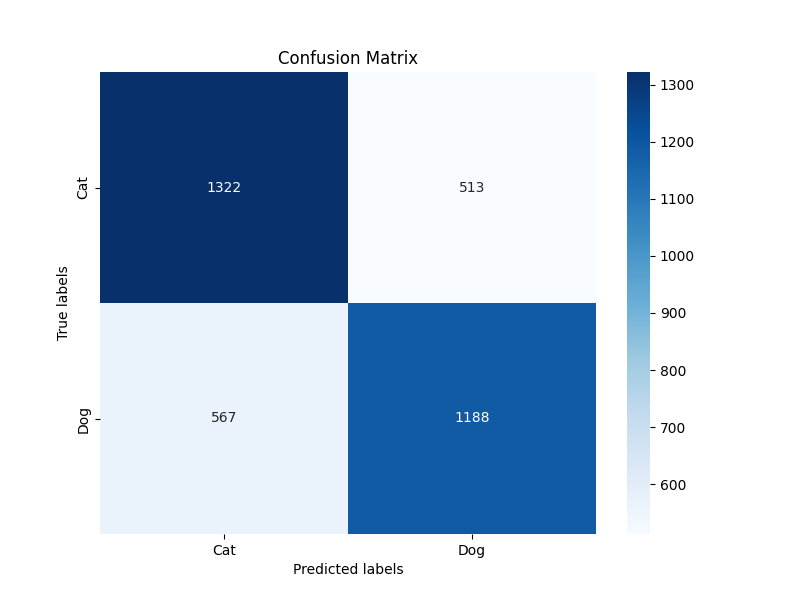
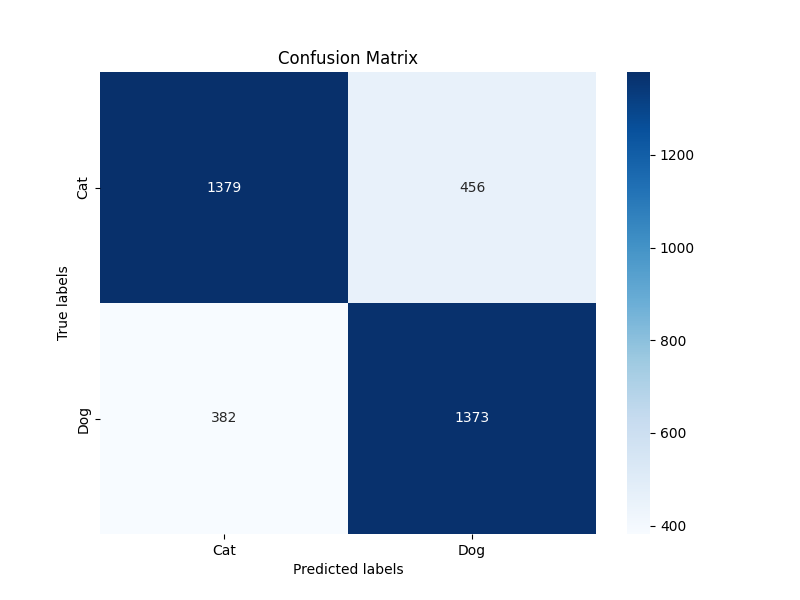
Æ[UPDATE] Training to compare

diff --git a/1_CatDog_Project/Compare_CNN/training_model.py b/1_CatDog_Project/Compare_CNN/training_model.py
@@ -51,26 +51,54 @@ def build_vgg11_model(input_shape=(224, 224, 3), num_classes=2):
     # Khởi tạo mô hình và thêm các lớp giống như trong đoạn code ban đầu của bạn
 
     #Lenet8 lớp
+    # model = Sequential()
+    # model.add(Input(shape=(224, 224, 3)))
+    # model.add(Conv2D(filters=16, kernel_size=(3, 3), activation="relu", padding="same"))
+    # model.add(MaxPool2D(pool_size=(2, 2)))
+
+    # model.add(Conv2D(filters=32, kernel_size=(3, 3), activation="relu", padding="same"))
+    # model.add(MaxPool2D(pool_size=(2, 2)))
+
+    # model.add(Conv2D(filters=64, kernel_size=(3, 3), activation="relu", padding="same"))
+    # model.add(MaxPool2D(pool_size=(2, 2)))
+
+    # model.add(Conv2D(filters=128, kernel_size=(3, 3), activation="relu", padding="same"))
+    # model.add(MaxPool2D(pool_size=(2, 2)))
+
+    # model.add(Conv2D(filters=128, kernel_size=(3, 3), activation="relu", padding="same"))
+    # model.add(MaxPool2D(pool_size=(2, 2)))
+
+    # model.add(Flatten())
+    # model.add(Dense(units=4096, activation="relu"))
+    # model.add(Dropout(0.2))
+    # model.add(Dense(units=1024, activation="relu"))
+    # model.add(Dropout(0.2))
+    # model.add(Dense(units=2, activation="softmax"))
+
+
     model = Sequential()
     model.add(Input(shape=(224, 224, 3)))
-    model.add(Conv2D(filters=16, kernel_size=(3, 3), activation="relu", padding="same"))
-    model.add(MaxPool2D(pool_size=(2, 2)))
-
-    model.add(Conv2D(filters=32, kernel_size=(3, 3), activation="relu", padding="same"))
-    model.add(MaxPool2D(pool_size=(2, 2)))
-
     model.add(Conv2D(filters=64, kernel_size=(3, 3), activation="relu", padding="same"))
     model.add(MaxPool2D(pool_size=(2, 2)))
 
     model.add(Conv2D(filters=128, kernel_size=(3, 3), activation="relu", padding="same"))
     model.add(MaxPool2D(pool_size=(2, 2)))
 
-    model.add(Conv2D(filters=128, kernel_size=(3, 3), activation="relu", padding="same"))
+    model.add(Conv2D(filters=256, kernel_size=(3, 3), activation="relu", padding="same"))
+    model.add(Conv2D(filters=256, kernel_size=(3, 3), activation="relu", padding="same"))
+    model.add(MaxPool2D(pool_size=(2, 2)))
+
+    model.add(Conv2D(filters=512, kernel_size=(3, 3), activation="relu", padding="same"))
+    model.add(Conv2D(filters=512, kernel_size=(3, 3), activation="relu", padding="same"))
+    model.add(MaxPool2D(pool_size=(2, 2)))
+
+    model.add(Conv2D(filters=512, kernel_size=(3, 3), activation="relu", padding="same"))
+    model.add(Conv2D(filters=512, kernel_size=(3, 3), activation="relu", padding="same"))
     model.add(MaxPool2D(pool_size=(2, 2)))
 
     model.add(Flatten())
     model.add(Dense(units=4096, activation="relu"))
-    model.add(Dense(units=1024, activation="relu"))
+    model.add(Dense(units=4096, activation="relu"))
     model.add(Dense(units=2, activation="softmax"))
 
     return model
@@ -192,12 +220,12 @@ dog_folders = [
 # train_x, test_x, train_y, test_y = process_data([(cat_regular_x, cat_regular_y), (dog_regular_x, dog_regular_y)])
 # train_and_save_model(train_x, train_y, test_x, test_y, "VGG11_CatDog_Full", epochs=30)
 
-cat_regular_x, cat_regular_y = mix_data([cat_folders[4]], 0)
-dog_regular_x, dog_regular_y = mix_data([dog_folders[4]], 1)
+cat_regular_x, cat_regular_y = mix_data([cat_folders[0]], 0)
+dog_regular_x, dog_regular_y = mix_data([dog_folders[0]], 1)
 
 train_x, test_x, train_y, test_y = process_data([(cat_regular_x, cat_regular_y), (dog_regular_x, dog_regular_y)])
-train_and_save_model(train_x, train_y, test_x, test_y, "VGG11_CatDog_Process", epochs=30)
-model = load_model("./data/VGG11_CatDog_Process_CNN_model.h5")
+# train_and_save_model(train_x, train_y, test_x, test_y, "VGG11", epochs=30)
+model = load_model("./data/VGG11_CNN_model.h5")
 
 all_data = []
 all_data.extend(train_x)
@@ -229,5 +257,5 @@ sns.heatmap(conf_matrix, annot=True, fmt="d", cmap="Blues",
 plt.xlabel('Predicted labels')
 plt.ylabel('True labels')
 plt.title('Confusion Matrix')
-plt.savefig("./img/VGG11_confuse_matrix_full.png")
+plt.savefig("./img/VGG11.png")
 plt.show()

diff --git a/1_CatDog_Project/Compare_CNN/test.py b/1_CatDog_Project/Compare_CNN/test.py
@@ -1,0 +1,63 @@
+import matplotlib.pyplot as plt
+from tensorflow.keras.models import Sequential
+from tensorflow.keras.layers import Conv2D, MaxPooling2D, Flatten, Dense, Dropout
+from tensorflow.keras.utils import plot_model
+
+def VGG11(input_shape=(224, 224, 3), num_classes=1000):
+    model = Sequential([
+        Conv2D(64, (3, 3), padding='same', activation='relu', input_shape=input_shape),
+        MaxPooling2D((2, 2), strides=(2, 2)),
+        
+        Conv2D(128, (3, 3), padding='same', activation='relu'),
+        MaxPooling2D((2, 2), strides=(2, 2)),
+        
+        Conv2D(256, (3, 3), padding='same', activation='relu'),
+        Conv2D(256, (3, 3), padding='same', activation='relu'),
+        MaxPooling2D((2, 2), strides=(2, 2)),
+        
+        Conv2D(512, (3, 3), padding='same', activation='relu'),
+        Conv2D(512, (3, 3), padding='same', activation='relu'),
+        MaxPooling2D((2, 2), strides=(2, 2)),
+        
+        Conv2D(512, (3, 3), padding='same', activation='relu'),
+        Conv2D(512, (3, 3), padding='same', activation='relu'),
+        MaxPooling2D((2, 2), strides=(2, 2)),
+        
+        Flatten(),
+        Dense(4096, activation='relu'),
+        Dropout(0.2),
+        Dense(4096, activation='relu'),
+        Dropout(0.2),
+        Dense(num_classes, activation='softmax')
+    ])
+    
+    return model
+
+# Create the VGG11 model
+model = VGG11()
+
+
+def plot_keras_model(model, show_shapes=True, show_layer_names=True, layer_spacing=0.1):
+    num_layers = len(model.layers)
+    plt.figure(figsize=(10, num_layers * layer_spacing))
+    
+    # Tạo ra một từ điển để lưu trữ tên và hình dạng của các lớp
+    nodes = {}
+    for i, layer in enumerate(model.layers):
+        nodes[i] = (layer.name, layer.output_shape)
+
+    # Vẽ các lớp và kết nối
+    for i in range(num_layers):
+        name, shape = nodes[i]
+        plt.text(0.5, num_layers - i - 1, f'{name}\n{shape}', ha='center', va='center',
+                 bbox=dict(boxstyle='round,pad=0.5', facecolor='lightblue'))
+        if i < num_layers - 1:
+            plt.arrow(0.5, num_layers - i - 1.5, 0, -0.4, head_width=0.1, head_length=0.1, fc='k', ec='k')
+
+    # Định dạng đồ thị
+    plt.axis('off')
+    plt.tight_layout()
+    plt.show()
+
+# Chỉnh sửa giá trị 'layer_spacing' để thay đổi khoảng cách giữa các lớp
+plot_keras_model(model, layer_spacing=1.5)

diff --git a/1_CatDog_Project/SIFT/test.py b/1_CatDog_Project/SIFT/test.py
@@ -1,0 +1,34 @@
+from image_processing import *
+from convert_keypoint_tuple import *
+import time
+import joblib
+from bovw import *
+
+# Start time counting
+start_time = time.time()
+
+codebook = joblib.load("./data/codebook.joblib")
+
+#Load files
+print("Loading file ...")
+cat_dir = "../Cat1000"
+(cat_bgr, cat_gray) = load_images(cat_dir)
+
+
+#Extract SIFT features
+print("Extracting feature ...")
+(cat_keypoints, cat_description) = extract_visual_features(cat_gray)
+
+img = cat_bgr[1]
+img_with_keypoints = cv2.drawKeypoints(cat_bgr[1], cat_keypoints[1], None, flags=cv2.DRAW_MATCHES_FLAGS_DRAW_RICH_KEYPOINTS)
+output_file_name = "cat_with_keypoints.jpg"
+cv2.imwrite(output_file_name, img_with_keypoints)
+feature = represent_image_features(cat_description[1], codebook)
+print(feature)
+
+
+# End and calculate time
+end_time = time.time()
+execution_time = end_time - start_time
+
+print("Thời gian thực thi: {:.5f} giây".format(execution_time))

diff --git a/1_CatDog_Project/SIFT/training_model.py b/1_CatDog_Project/SIFT/training_model.py
@@ -56,6 +56,18 @@ print("\nAccuracy of Valid set and Test set")
 test_preds = model.predict(test_set)
 test_accuracy = accuracy_score(test_y, test_preds)
 print("Test Accuracy:", test_accuracy)
+# Tính toán confusion matrix
+conf_matrix = confusion_matrix(test_y, test_preds)
+
+# Vẽ confusion matrix
+plt.figure(figsize=(10, 8))
+sns.heatmap(conf_matrix, annot=True, fmt="d", cmap="Blues",
+            xticklabels=["Cat", "Dog"], yticklabels=["Cat", "Dog"])
+plt.xlabel('Predicted labels')
+plt.ylabel('True labels')
+plt.title('Confusion Matrix')
+plt.savefig('./image/confusion_test_matrix.png')
+plt.show()
 
 # dataset = train_set + valid_set +test_set
 dataset = train_set + test_set
